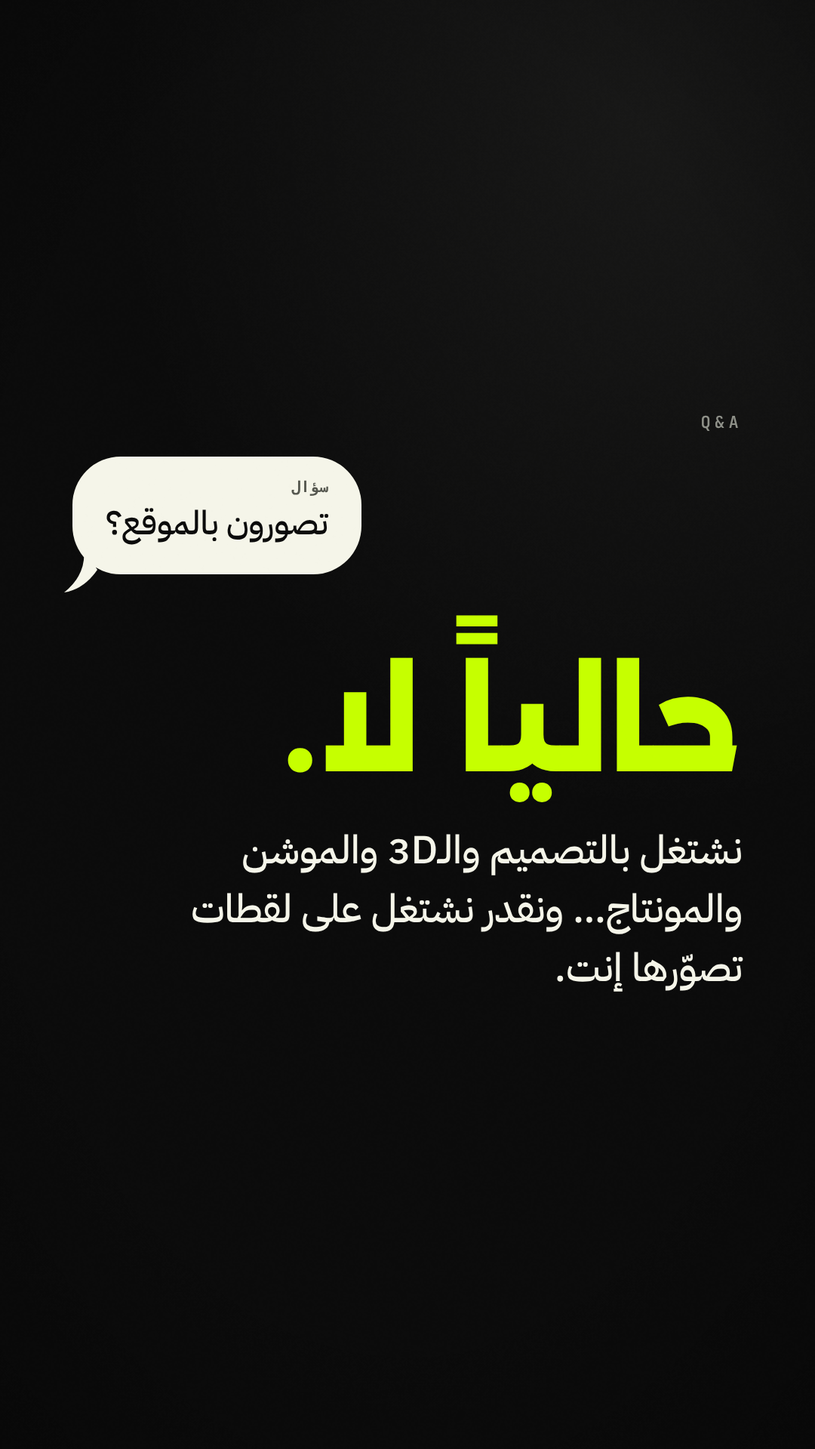
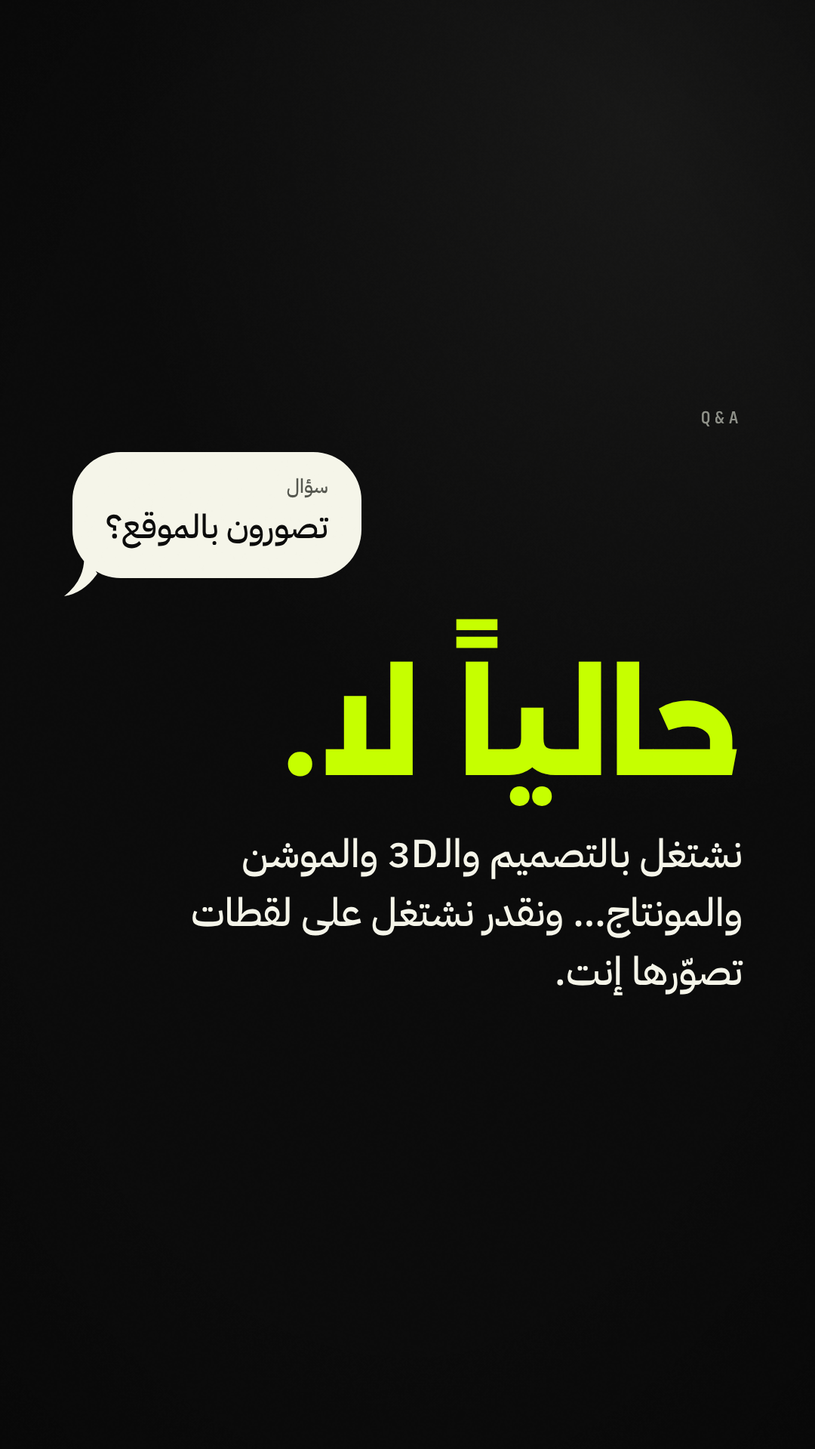
TASH: coffee HABBA outputs + CD notes for the review stage
Claude-Session: https://claude.ai/code/session_01V6x5TZsAm6X1rqhwpVNZeb

diff --git a/tash/03-templates/templates/story-qa.html b/tash/03-templates/templates/story-qa.html
@@ -15,6 +15,7 @@
   .you { position: absolute; left: 96px; z-index: 10; }
   .q { position: absolute; left: 96px; max-width: 760px; z-index: 10; padding: 30px 44px 34px; font-size: 44px; line-height: 1.45; text-wrap: balance; }
   .q .n { display: block; font-size: 20px; margin-bottom: 8px; color: #55574F; direction: ltr; text-align: right; }
+  .q .ar-n { font-size: 26px; line-height: 1.2; direction: rtl; }
   .a { position: absolute; right: 96px; left: 96px; z-index: 10; color: var(--fg); font-size: 52px; line-height: 1.5; text-wrap: pretty; }
 </style></head><body><div id="stage"></div>
 <script type="module">
@@ -40,7 +41,8 @@ run(async (d, { stage, T, rich, h, put, linesOf, bubble, typingBubble, fit }) =>
   }
   // answer
   const label = d.label ? h('div', { class: 'slate label', text: d.label }) : null;
-  const q = bubble([h('span', { class: 'slate n', text: d.qlabel || 'Q' }), h('span', { html: rich(d.question) })],
+  const ql = d.qlabel || 'Q', qlAr = /[\u0600-\u06FF]/.test(ql);          // Arabic label → text style (never a letter-spaced slate)
+  const q = bubble([h('span', { class: qlAr ? 'txt n ar-n' : 'slate n', text: ql }), h('span', { html: rich(d.question) })],
     { fill: COL.paper, color: COL.ink, side: 'left', cls: 'txt q key' });
   q.dataset.name = 'question';
   const v = d.verdict ? h('div', { class: 'disp verdict key', 'data-fit': '110,170', 'data-lines': '1', 'data-name': 'verdict', html: rich(d.verdict) }) : null;

diff --git a/tash/05-concept-ads/03-coffee-habba/src/scene.js b/tash/05-concept-ads/03-coffee-habba/src/scene.js
@@ -175,10 +175,10 @@ export function makeEnv(renderer) {
 export function makeRoom(tex) {
   const g = new THREE.Group();
   const tg = new THREE.PlaneGeometry(14, 10, 1, 1);
-  tex.wood.wrapS = tex.wood.wrapT = THREE.RepeatWrapping; tex.wood.repeat.set(2.2, 1.6);
+  tex.wood.wrapS = tex.wood.wrapT = THREE.MirroredRepeatWrapping; tex.wood.repeat.set(2.2, 1.6);   // book-matched: the procedural grain is not periodic, mirroring hides the tile seam
   const table = new THREE.Mesh(tg, new THREE.MeshStandardMaterial({ map: tex.wood, roughness: 0.48, bumpMap: tex.wood, bumpScale: 0.6, envMapIntensity: 0.55 }));
   table.rotation.x = -Math.PI / 2; table.position.set(0, 0, 2.0); table.receiveShadow = true; g.add(table);
-  tex.wall.wrapS = tex.wall.wrapT = THREE.RepeatWrapping; tex.wall.repeat.set(2, 1.2);
+  tex.wall.wrapS = tex.wall.wrapT = THREE.MirroredRepeatWrapping; tex.wall.repeat.set(2, 1.2);
   const wall = new THREE.Mesh(new THREE.PlaneGeometry(16, 9), new THREE.MeshStandardMaterial({ map: tex.wall, roughness: 0.96, bumpMap: tex.wall, bumpScale: 0.8, envMapIntensity: 0.35 }));
   wall.position.set(0, 4.5, -3.0); wall.receiveShadow = true; g.add(wall);
   return { group: g, table, wall };

diff --git a/tash/05-concept-ads/03-coffee-habba/src/shots.js b/tash/05-concept-ads/03-coffee-habba/src/shots.js
@@ -148,7 +148,8 @@ export function frameSpec(t, { clean = false, poster = false } = {}) {
     const k = (tT - SHOT.S5.at) / (C.duration - SHOT.S5.at);
     S.cam = orbit([-0.1, 0.62, 0.0], lerp(4.75, 4.25, E.outQuad(k)), lerp(4, -2, k) * deg, lerp(5, 7, k) * deg, 28);
     S.beans = beansAt(t, 'landed');
-    S.steam = steamAt(t, lerp(0.6, 0.32, tw(t, EV.logoIn - 0.3, 0.8, E.inOutSine)), 0.85);
+    const sk = tw(t, EV.logoIn - 0.4, 1.0, E.inOutSine);   // the steam settles low so it never runs through the lockup
+    S.steam = steamAt(t, lerp(0.6, 0.38, sk), lerp(0.85, 0.55, sk));
     S.dof = { focus: lerp(4.65, 4.15, k), ap: 10 };
     if (!clean && t >= EV.blindsClose) {               // the blinds close: light narrows to slits, room goes dark → TASH
       const c = tw(t, EV.blindsClose, EV.blindsCloseDur, E.inCubic);

diff --git a/tash/03-templates/src/tpl.js b/tash/03-templates/src/tpl.js
@@ -278,6 +278,8 @@ function check(stage, spec, warnings) {
     if (rail && r.x1 > rail.x0 && r.y1 > rail.y0 && r.y0 < rail.y1)
       warnings.push(`KEY CONTENT UNDER THE REELS ACTION RAIL: "${describe(el)}"`);
   }
+  // mono slates are Latin/digits only: Arabic in a slate would be letter-spaced and set in a font without Arabic
+  for (const el of stage.querySelectorAll('.slate')) if (/[\u0600-\u06FF]/.test(el.textContent)) warnings.push(`ARABIC IN A MONO SLATE (letter-spaced Arabic): "${el.textContent.trim()}"`);
   // key elements must never sit on top of each other (text-over-text)
   const keys = [...stage.querySelectorAll('.key')].filter(el => el.getBoundingClientRect().width > 0);
   for (let i = 0; i < keys.length; i++) for (let j = i + 1; j < keys.length; j++) {

diff --git a/tash/03-templates/README.md b/tash/03-templates/README.md
@@ -1,0 +1,171 @@
+<div dir="rtl">
+
+# قوالب طشّ — `03-templates`
+
+نظام قوالب لحساب **@tash.creative.kw**: كل قالب صفحة HTML تقرا بياناتها من ملف JSON، وسكربت واحد يطلّعها صورة PNG بالمقاس الصح.
+تغيّر النص بالـJSON، تشغّل أمر واحد، وتطلع لك الصورة. ما في فوتوشوب، وما في نص مرسوم كصورة: الخط يتشكّل من Chromium بخطوطنا (OFL).
+
+نظرة سريعة على كل الأمثلة: `examples/_overview.png` · المناطق الآمنة: `examples/safe-zones.png`
+
+---
+
+## ١. أسرع طريقة: عدّل وطلّع
+
+كل الأوامر من داخل مجلد `tash/`:
+
+</div>
+
+```bash
+# قالب + بيانات → صورة
+node 03-templates/render.mjs 03-templates/templates/post-statement.html 03-templates/data/post-statement-01.json 03-templates/examples/my-post.png
+
+# نفس الشي مع خطوط المناطق الآمنة (للمراجعة فقط، لا تنشرها)
+node 03-templates/render.mjs 03-templates/templates/reel-cover.html 03-templates/data/reel-cover-launch.json review/<اسمك>/cover-guide.png --guide
+
+# كل الأمثلة مرة وحدة (من examples.json) — أو جزء منها
+node 03-templates/render.mjs --all
+node 03-templates/render.mjs --all --only carousel
+```
+
+<div dir="rtl">
+
+**الخطوات:**
+1. انسخ ملف بيانات قريب من اللي تبيه من `data/` وسمّه اسم جديد.
+2. غيّر النصوص (والصورة إذا فيه). لا تلمس ملف القالب نفسه.
+3. شغّل الأمر. السكربت ينتظر الخطوط والصور، يطلّع الـPNG، ويطبع النتيجة، ومعها أي تحذير وسببه.
+4. افتح الصورة بحجمها الكامل، وصغّرها لـ25% (حجم الشبكة) وشوف إذا تنقرا.
+
+**معاينة حيّة بالمتصفح** (يحتاج سيرفر يخدم `tash/` كجذر، مثل اللي يشغّله السكربت):
+`/03-templates/templates/post-cta.html?data=/03-templates/data/post-cta-01.json` — وأضف `&guide` للخطوط، أو `&slide=2` لشريحة معيّنة.
+
+---
+
+## ٢. شلون تكتب النص بالـJSON
+
+| تكتب | يطلع | ملاحظة |
+|---|---|---|
+| `\n` | سطر جديد | قسّم السطور بالمعنى، مو بالطول. إذا حطيت `\n` القالب يلتزم بعدد سطورك ويصغّر الخط لين يركب. |
+| `•••` | النقاط الثلاث (ليموني على الحبر) | «النقاط» علامة طشّ. مرّة وحدة بالتصميم، مكان «…». |
+| `*كلمة*` | الكلمة باللون المميّز | ليموني على الحبر فقط. على الورقي والليموني تطلع حبر. كلمة وحدة بالتصميم، مو بكل عنوان. |
+| أرقام وإنجليزي | تنعزل تلقائياً LTR | `3D`، `0.350`، `1080×1920` تطلع صح داخل الجملة العربية، والنقطة والنقطتين تبقى على الجهة العربية. |
+
+- **الأسعار بالدينار:** ثلاث خانات عشرية: `0.350` مع «د.ك».
+- **الأرقام:** اختار هندي (٢) أو عربي (2) وثبّت عليه بنفس التصميم. لوحات المونو (`CONCEPT AD — 01`) دايماً لاتيني.
+- **ممنوع** تكتب عربي بخانة `slate` أو `series` (خط المونو ما فيه عربي، والتباعد يكسّر الحروف). السكربت يحذّرك إذا صار.
+- اقرا كل سطر مرتين: الهمزة، ة/ه، الشدّة، وجهة علامات الترقيم (، ؟ !).
+
+---
+
+## ٣. القوالب
+
+| # | القالب | الملف | المقاس | البيانات | أمثلة |
+|---|---|---|---|---|---|
+| 1 | بوست — جملة | `templates/post-statement.html` | 1080×1350 | `theme` (ink · paper · lime) · `headline` · `reply` · `slate` اختياري | `post-statement-01/02` |
+| 1 | بوست — خدمة | `templates/post-service.html` | 1080×1350 | `image` {src, fx, fy, zoom} أو `images` [..] · `concept` · `service` · `line` · `includes` [..] | `post-service-01/02` |
+| 1 | بوست — قبل ← بعد | `templates/post-before-after.html` | 1080×1350 | `headline` · `before` {src,label} · `after` {src,label} · `focus` [x,y] · `scale` · `split` · `concept` | `post-before-after-01/02` |
+| 1 | بوست — «اطلب إعلانك» | `templates/post-cta.html` | 1080×1350 | `theme` (lime افتراضي) · `message` (فقاعتك) · `headline` · `line` · `contact` | `post-cta-01/02` |
+| 2 | كاروسيل | `templates/carousel.html` | 1080×1350 / شريحة | `series` · `slides` [ {kind: cover/content/closing, …} ] — ملف واحد يطلّع كل الشرائح | `carousel-how-to-order-01…06` |
+| 3 | غلاف ريل | `templates/reel-cover.html` | 1080×1920 | `variant`: `launch` · `concept` · `bts` | `reel-cover-launch/concept/bts` (+ `-guide`) |
+| 4 | ستوري «شغل جديد» | `templates/story-new-work.html` | 1080×1920 | `headline` · `line` · `image` · `title` · `kind` · `concept` | `story-new-work-01/02` |
+| 4 | ستوري «شلون تطلب؟» | `templates/story-how-to-order.html` | 1080×1920 | `headline` · `steps` [٤ رسائل] · `you` | `story-how-to-order` |
+| 4 | ستوري سؤال/تصويت | `templates/story-qa.html` | 1080×1920 | `kind: poll` {question, note} أو `kind: answer` {label, qlabel, question, verdict, answer} | `story-qa-poll`, `story-qa-answer` |
+| 5 | أغلفة الهايلايت | `templates/highlight.html` | 1080×1920 | `slides` [ {id, icon, name} ] — icon: work · services · order · prices · faq | `highlight-1…5` + `highlights-preview` |
+| 6 | بوستر إعلان عميل | `templates/client-poster.html` | 1080×1350 أو 1080×1920 | `size` (4x5 · 9x16) · `palette` · `product` (صورة أو شكل مؤقت) · `headline` · `offer` · `cta` · `logo` · `concept` | `client-poster-looma-4x5/9x16` |
+| 7 | ستوري متحرّك «شغل جديد» | `motion/story-new-work/index.html` | 1080×1920 · 7 ث · 30fps | نفس `data/story-new-work-01.json` | `story-new-work-anim.mp4` (+ poster + contact) |
+| — | لوحة المناطق الآمنة | `templates/safe-zones.html` | 2560×1600 | — | `safe-zones.png` |
+
+**ملاحظات على كل قالب:**
+- **الجملة:** العنوان يصغر تلقائياً لين يركب بعدد السطور اللي كتبتها. الردّ (`reply`) سطر قصير هادي تحت. شعار طشّ دايماً تحت يسار (نهاية القراءة بالعربي) بكل بوست وشريحة.
+- **الخدمة:** الصورة فوق لازم تكون شغل حقيقي من عندنا. إذا كانت من إعلان تجريبي، `concept` **إلزامي**.
+- **قبل ← بعد:** الصورتين لازم نفس الكاميرا ونفس الكادر (مثل لقطات `bts` بـ`assets/`)، عشان القسمة تبين شي واحد نصّه قبل ونصّه بعد. `focus` = النقطة اللي تبيها بالنص (بكسلات الصورة الأصلية)، `scale` = حجمها.
+- **«اطلب إعلانك»:** المحادثة نفسها هي الفكرة: رسالتك يسار، وفقاعتنا تكتب يمين. لا تكتب أسماء أو أرقام بالفقاعة.
+- **الكاروسيل:** العدّاد مونو (`02 / 06`)، والنقاط الثلاث تتعبّى ليموني من اليمين لليسار مع التقدّم: الغلاف نص نقطة، والأخيرة الثلاث كاملة. الشرائح بالترتيب حسب مكانها بـ`slides`.
+- **غلاف الريل:** `launch` = الشعار هو الصورة · `concept` = لقطة الإعلان + بطاقة «سليت» حبر فيها العنوان والتصنيف · `bts` = الهيكل، وشريط يبين اللقطة النهائية بين خطّين ليموني.
+- **سؤال/تصويت:** بالـ`poll` نخلي مكان الملصق فاضي (يبين بـ`--guide`)، وتحطّه إنت بإنستغرام بنفس المكان.
+- **الهايلايت:** الليموني بس على «شلون تطلب؟» (هي الفعل). الأسماء تنكتب بإنستغرام، مو على الصورة. ملف `06-copy/instagram-profile.md` يقترح «شغلنا» بدال «أعمالنا»: غيّرها بـ`data/highlights.json` إذا اعتمدناها.
+- **بوستر العميل:** بألوان العميل وخطّه، مو ألواننا. طشّ يطلع بس بشريط «CONCEPT AD» تحت. إذا ما في صورة منتج، القالب يرسم علبة مؤقتة ومكتوب عليها `PRODUCT PLACEHOLDER` — بدّلها بـ`product.src` (صورة PNG شفافة أو رندر 3D).
+
+---
+
+## ٤. المقاسات والمناطق الآمنة
+
+| الشكل | المقاس | المهم يكون داخل | الأسباب |
+|---|---|---|---|
+| بوست فيد 4:5 | 1080×1350 | عرض الوسط **1012** (قصّة 3:4 بالشبكة) · هوامشنا 96 | البروفايل يعرض 3:4 من الوسط |
+| غلاف ريل 9:16 | 1080×1920 | **y 240 → 1500**، x 72 → 1008، وبعيد عن آخر 120 يمين بالنص السفلي | الشبكة تعرض الوسط 1080×1440 (240→1680) · واجهة الريلز فوق 220 وتحت 420 · أزرار يمين |
+| ستوري 9:16 | 1080×1920 | **y 250 → 1620**، x 72 → 1008 | فوق: الحساب والوقت · تحت: الرد والملصقات |
+| غلاف هايلايت | 1080×1920 | دائرة **⌀660** بالنص | البروفايل يقص دائرة من الوسط |
+
+السكربت يفحص هالمناطق بنفسه: أي عنصر مهم (`.key`) يطلع برّاها يطلع لك تحذير.
+
+---
+
+## ٥. التحذيرات وشنو تسوي
+
+| التحذير | يعني | الحل |
+|---|---|---|
+| `TEXT DOES NOT FIT` | النص ما ركب حتى بأصغر حجم مسموح | قصّر النص. لا تصغّر الحد الأدنى. |
+| `text at minimum size` | ركب، بس بأصغر حجم | يفضّل تقصّره |
+| `KEY CONTENT OUTSIDE SAFE AREA` / `UNDER THE REELS ACTION RAIL` | شي مهم بمكان تغطيه الواجهة أو القصّة | قصّر أو غيّر التقسيم |
+| `OVERLAP` | نصّين فوق بعض | قصّر النص أو قلّل السطور |
+| `TEXT OFF CANVAS` | نص طالع برّا الصورة | نفس الشي |
+| `ARABIC IN A MONO SLATE` | عربي بخانة المونو | خله لاتيني، أو انقله لخانة عربية |
+| `FONTS NOT LOADED` | خط ما انحمّل | تأكد إنك تشغّل من `tash/` وإن `_system/fonts` موجود |
+
+---
+
+## ٦. الستوري المتحرّك
+
+`motion/story-new-work/` — صفحة واحدة، كل شي فيها دالة من الوقت (ما في CSS animation ولا `Math.random`).
+التوقيتات كلها بـ`cues.json`، والصوت (`audio.py`) يقرا نفس الملف، فإذا غيّرت توقيت يتغيّر الاثنين.
+
+</div>
+
+```bash
+# 1) الصوت (أصلي من tashaudio، −14 LUFS)
+python3 03-templates/motion/story-new-work/audio.py
+# 2) لقطات للمراجعة أول
+node _system/tools/render.mjs --page 03-templates/motion/story-new-work/index.html --stills 0.5,1.7,2.2,6.9 --stills-dir review/<اسمك>
+# 3) الفيديو (لا تزيد عن --workers 2: الجهاز مشترك)
+node _system/tools/render.mjs --page 03-templates/motion/story-new-work/index.html --out 03-templates/examples/story-new-work-anim.mp4 --audio 03-templates/motion/story-new-work/audio.wav --workers 2
+# 4) الفحص
+bash _system/tools/contact.sh 03-templates/examples/story-new-work-anim.mp4 03-templates/examples/story-new-work-anim-contact.png
+bash _system/tools/audio-check.sh 03-templates/examples/story-new-work-anim.mp4 review/<اسمك>/spec.png
+```
+
+<div dir="rtl">
+
+- لعمل جديد: انسخ `data/story-new-work-01.json`، غيّر الصورة والنصوص، ومرّر الملف للصفحة: `--page "03-templates/motion/story-new-work/index.html?data=/03-templates/data/<ملفك>.json"`.
+- القصة: فقاعة تكتب + «شغل جديد» ← النقاط تكبر وتمسح الشاشة (مرة وحدة بالقطعة) ← ترجع تصغر وتطير لين تصير «…» العنوان، وتبين الشغل ← السطر كلمة كلمة ← الاسم ← توقيع طشّ ← النقاط تكتب مرة أخيرة.
+- الصوت: تكّات الكتابة ← سكتة قبل المسح ← ضربة وحدة على القطع ← ثلاث تكّات لما النقاط توصل ← إيقاع خليجي خفيف (مرواس وتصفيق) ينخفض وقت قراية السطر ← جرس يقفل على «ري» (بياتي).
+
+---
+
+## ٧. نسوي / ما نسوي
+
+| نسوي | ما نسوي |
+|---|---|
+| خط كبير وواثق، وفراغ واجد | نعبّي كل زاوية |
+| الليموني إشارة: النقاط، كلمة وحدة، أو الفعل | ليموني على ورقي، أو ليموني بكل مكان |
+| النقاط الثلاث مرة وحدة بنيّة (نقاط الحذف، مقبض، تقدّم، مسح) | نرشّها زينة |
+| لوحة مونو وحدة صغيرة | عناوين إنجليزية فوق كل عنوان |
+| صورة حقيقية من شغلنا | صور ستوك، شعارات حقيقية، واجهات إنستغرام/تيك توك |
+| «إعلان تجريبي — علامة خيالية» على كل شغل تجريبي | «من أعمالنا» على إعلان تجريبي |
+| كويتي قصير: «اطلب إعلانك»، «شلون تطلب؟» | «نقدم لكم أفضل الحلول»، «الأفضل في الكويت» |
+| أرقام وأسعار العميل كما وصلتنا | نألّف عدد عملاء، مشاهدات، أو آراء |
+| نقسّم السطور بالمعنى | نكسر الكلمة العربية أو نباعد حروفها |
+| نشيّك 25% (حجم الشبكة) و200% (الهمزة والشدّة) | ننشر بدون ما نشوف الصورة بحجمها |
+
+---
+
+## ٨. ملفات وأصول
+
+- `src/tpl.js` — المحرّك المشترك: قراءة البيانات، النص الغني، تصغير الخط لين يركب، فقاعات المحادثة، النقاط، الشعار، الحبيبات (grain)، خطوط `--guide`، وفحوص المناطق والتداخل.
+- `src/icons.js` — أيقونات هندسية بنسب النقاط في الشعار (القطر : المسافة = 1 : 0.178).
+- `src/base.css` — أدوار الخطوط (Alexandria للعناوين، IBM Plex Sans Arabic للنص، JetBrains Mono للوحات، Archivo للاتيني).
+- `assets/layl-bts-*.png` — لقطات مستخرجة من `05-concept-ads/01-perfume-layl/bts/` (شغل فريق الإعلانات التجريبية).
+- صور «ليل» و«ستاك برجر» بالأمثلة تُقرا مباشرة من `05-concept-ads/` — إذا انعادت، الأمثلة تتحدّث بإعادة التشغيل.
+- «لومة / LOOMA» علامة خيالية سويناها للمثال فقط (صودا لومي)؛ مكتوب عليها مثال وإعلان تجريبي.
+- النصوص مأخوذة أو مبنية على `06-copy/` و`07-ops/05-process-and-timeline.md` (الخطوات الأربع).
+
+</div>

diff --git a/tash/05-concept-ads/03-coffee-habba/_CD-NOTES.md b/tash/05-concept-ads/03-coffee-habba/_CD-NOTES.md
@@ -1,0 +1,6 @@
+# CD notes for the reviewer (main session, after watching the final at full size)
+Verdict from CD: beautiful light and a clever mark (bean as the dot of ب, «حبّة… حبّة.»). Verify yourself; keep the shot timeline stable.
+- Weakest shot: the milk pour ~4.2–6.3 s. The stream is a uniform solid white rod — reads as CG/a stick. Make it a liquid: thinner, tapering, slight wobble/twist over time, soft specular highlight + a touch of translucency, a small splash/ripple where it meets the crema.
+- Continuity: the latte heart is already in the cup at 0–1.5 s, before the pour draws it at 4–6 s. Prefer showing plain crema (or a different moment) in the opening so the heart is born in the pour — only if it doesn't change timings.
+- Beans (~7–9 s) look smooth/plastic: add the centre crease (S-cut) on all beans and slight roughness/colour variation.
+- Delete this file when you are done.

diff --git a/tash/05-concept-ads/02-burger-stakk/_CD-NOTES.md b/tash/05-concept-ads/02-burger-stakk/_CD-NOTES.md
@@ -1,0 +1,5 @@
+# CD notes for the reviewer (main session, after watching the final at full size)
+Verdict from CD: good concept («كل طبقة لها سالفة»), captions legible, ٫ decimal correct. Verify yourself; keep the shot timeline stable.
+- Weak moment: ~3.0–3.5 s the smashed patty reads as a smooth grey-brown disc — no crust, no lacy crispy edges, no sear/Maillard variation. A smash patty sells on crust. Improve the material (darker crust, rough lacy rim, specular fat sheen) without changing timings.
+- Check ~10.0 s: a flat red frame with only a small yellow bar (transition into the client end card) — make sure it doesn't read as an empty/dead frame.
+- Delete this file when you are done.

diff --git a/tash/05-concept-ads/01-perfume-layl/_CD-NOTES.md b/tash/05-concept-ads/01-perfume-layl/_CD-NOTES.md
@@ -1,0 +1,4 @@
+# CD notes for the reviewer (main session, after watching the final at full size)
+Verdict from CD: strong — ship quality. Verify yourself; these are suggestions, keep the shot timeline stable.
+- Optional polish: ~12.9–13.6 s the pack shot fades to near-black for ~0.7 s before the TASH sting. Acceptable as a breath; tighten only if it reads as dead air on the contact sheet at 4 fps.
+- Delete this file when you are done.
